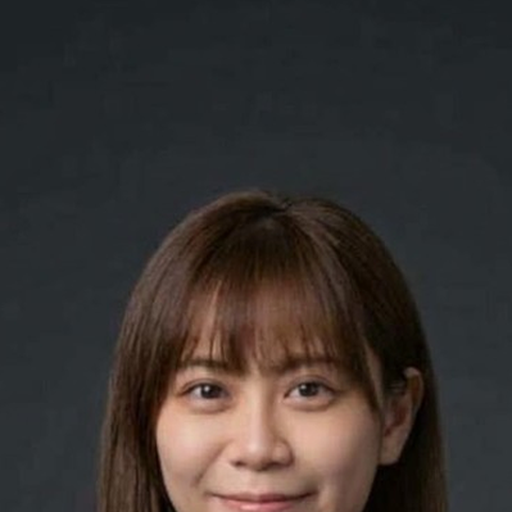
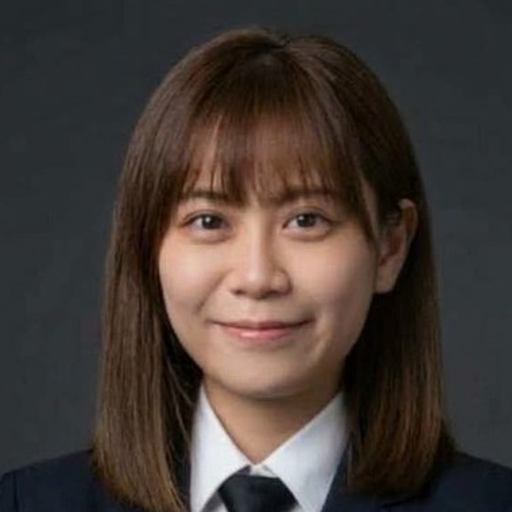
Show Ka Yi Chan's full face, match each card row to its tallest card, and keep the whole leadership photo visible.

diff --git a/js/app.js b/js/app.js
@@ -224,23 +224,25 @@ function cardHTML(m) {
   const catLabel = state.lang === "zh" ? cat.zh : cat.en;
   return `
     <article class="card-wrap">
-      <button class="card" type="button" data-id="${m.id}" style="--cat:${cat.color}">
-        <div class="card-top">
-          <img class="avatar" src="images/members/${m.id}.png?v=20261013a" alt="${m.name}" width="84" height="84">
-          <div>
-            <div class="badges">
-              <span class="badge">${catLabel}</span>
-              ${role ? `<span class="badge role">${role}</span>` : ""}
-              ${m.gold ? `<span class="badge gold">${t("gold")}</span>` : ""}
+      <div class="card-shell" style="--cat:${cat.color}" data-id="${m.id}">
+        <button class="card" type="button" data-id="${m.id}">
+          <div class="card-top">
+            <img class="avatar" src="images/members/${m.id}.png?v=20261013d" alt="${m.name}" width="84" height="84">
+            <div>
+              <div class="badges">
+                <span class="badge">${catLabel}</span>
+                ${role ? `<span class="badge role">${role}</span>` : ""}
+                ${m.gold ? `<span class="badge gold">${t("gold")}</span>` : ""}
+              </div>
+              <h2 class="card-name">${m.name}</h2>
+              <p class="profession">${profession}</p>
             </div>
-            <h2 class="card-name">${m.name}</h2>
-            <p class="profession">${profession}</p>
           </div>
-        </div>
-        ${company ? `<p class="company">${company}</p>` : ""}
-        <p class="intro">${intro}</p>
-      </button>
-      ${igButtons(m.instagram)}
+          ${company ? `<p class="company">${company}</p>` : ""}
+          <p class="intro">${intro}</p>
+        </button>
+        ${igButtons(m.instagram)}
+      </div>
     </article>
   `;
 }
@@ -275,7 +277,7 @@ function openModal(id) {
     <div class="modal-card" role="dialog" aria-modal="true" aria-labelledby="member-title" style="--cat:${cat.color}">
       <button class="modal-close" type="button" data-close aria-label="${t("close")}">×</button>
       <div class="modal-head">
-        <img src="images/members/${m.id}.png?v=20261013a" alt="${m.name}" width="120" height="120">
+        <img src="images/members/${m.id}.png?v=20261013d" alt="${m.name}" width="120" height="120">
         <div>
           <div class="badges">
             <span class="badge">${catLabel}</span>
@@ -353,6 +355,7 @@ function init() {
   });
 
   $("#grid").addEventListener("click", (e) => {
+    if (e.target.closest("a")) return;
     const card = e.target.closest("[data-id]");
     if (card) openModal(card.dataset.id);
   });

diff --git a/css/styles.css b/css/styles.css
@@ -201,24 +201,40 @@ a { color: inherit; }
   gap: 18px;
   padding-bottom: 48px;
 }
-.card {
+.card-shell {
+  display: flex;
+  flex-direction: column;
+  flex: 1;
+  height: 100%;
   background: var(--surface);
   border: 1px solid var(--line);
   border-radius: 24px;
   padding: 18px;
   box-shadow: var(--shadow);
+  transition: transform .18s ease, border-color .18s ease;
+}
+.card-shell:hover {
+  transform: translateY(-4px);
+  border-color: var(--red);
+}
+.card {
+  background: none;
+  border: 0;
+  padding: 0;
+  box-shadow: none;
   cursor: pointer;
   text-align: left;
   width: 100%;
   color: inherit;
+  font: inherit;
   display: grid;
   gap: 10px;
-  transition: transform .18s ease, border-color .18s ease;
+  align-content: start;
+  flex: 1;
 }
-.card:hover, .card:focus-visible {
-  transform: translateY(-4px);
-  border-color: var(--red);
-  outline: none;
+.card:focus-visible {
+  outline: 2px solid var(--red);
+  outline-offset: 4px;
 }
 .card-top {
   display: flex;
@@ -315,12 +331,13 @@ a { color: inherit; }
 }
 .social-btn:hover, .ig-btn:hover { border-color: var(--red); color: var(--red); }
 .card-wrap {
-  display: grid;
-  gap: 8px;
-  align-content: start;
+  display: flex;
+  flex-direction: column;
+  height: 100%;
 }
 .ig-row {
-  padding: 0 4px;
+  margin-top: auto;
+  padding-top: 10px;
 }
 .ig-btn {
   padding: 6px 10px;
@@ -420,9 +437,7 @@ a { color: inherit; }
 .banner img {
   width: 100%;
   height: auto;
-  max-height: min(72vh, 640px);
-  object-fit: cover;
-  object-position: center center;
+  object-fit: contain;
 }
 
 .clients h2, .inquire h2 {
@@ -631,5 +646,4 @@ a { color: inherit; }
   .hero { padding-top: 28px; }
   .modal-head { flex-direction: column; text-align: center; }
   .modal-head .badges { justify-content: center; }
-  .banner img { max-height: 42vh; }
 }

diff --git a/index.html b/index.html
@@ -37,7 +37,7 @@
   <link rel="preconnect" href="https://fonts.googleapis.com">
   <link rel="preconnect" href="https://fonts.gstatic.com" crossorigin>
   <link href="https://fonts.googleapis.com/css2?family=Fraunces:opsz,wght@9..144,600;9..144,700&family=Noto+Sans+TC:wght@400;600;700;900&family=Noto+Serif+TC:wght@600;700&display=swap" rel="stylesheet">
-  <link rel="stylesheet" href="css/styles.css?v=20261012d">
+  <link rel="stylesheet" href="css/styles.css?v=20261013d">
   <script>
     history.scrollRestoration = "manual";
     if (location.hash) history.replaceState(null, "", location.pathname + location.search);
@@ -272,7 +272,7 @@
     </button>
   </div>
 
-  <script src="js/members.js?v=20261013a"></script>
-  <script src="js/app.js?v=20261013a"></script>
+  <script src="js/members.js?v=20261013d"></script>
+  <script src="js/app.js?v=20261013d"></script>
 </body>
 </html>
